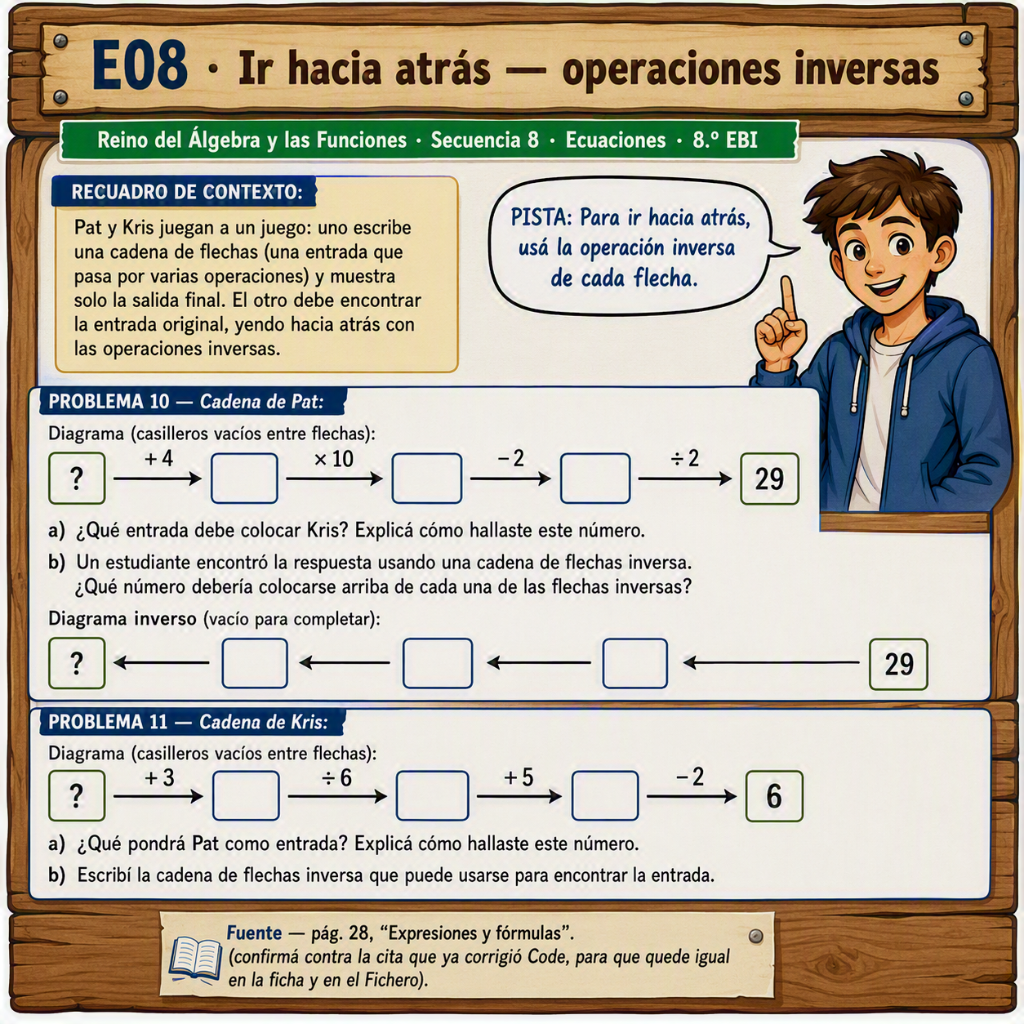
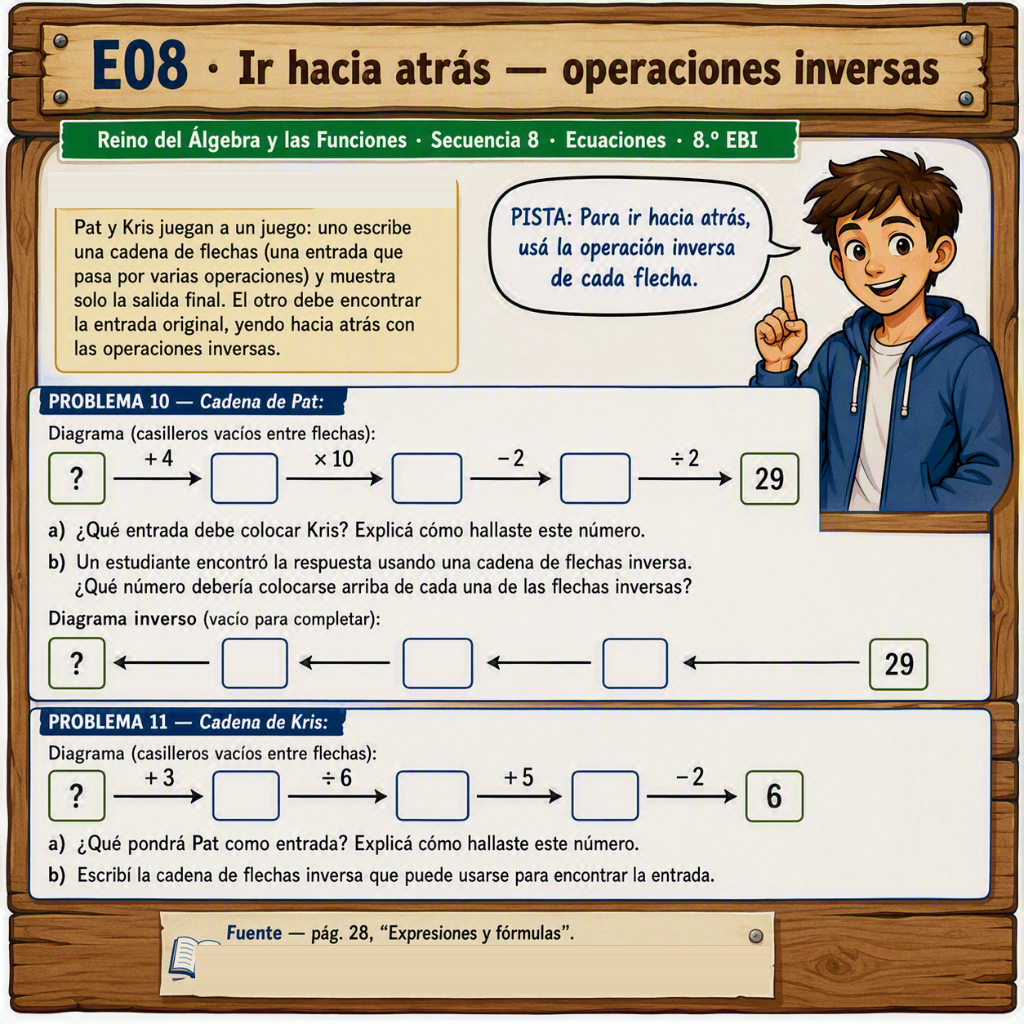
S8: reemplaza 5 archivos corregidos en misiones E01, E03, E08
- mision-01/Pijama_Death.png: badge cambiado de A-07 a E01
- mision-03/E03_parte 1.png: ítem 12 corregido, sin ejemplo, 12 ítems/nivel
- mision-03/E03_parte 3.png: ítems 1 y 6 de Nivel 2 corregidos
- mision-03/E03_ficha.html: cita de pie de página corregida
- mision-09/E08_operaciones inversas.png: eliminado recuadro CONTEXTO y nota filtrada

Changed region(s): [[0.0312, 0.1562, 0.4688, 0.2188], [0.1875, 0.9062, 0.7188, 0.9688]]

diff --git a/algebra-funciones/s8-ecuaciones/misiones/mision-03/E03_ficha.html b/algebra-funciones/s8-ecuaciones/misiones/mision-03/E03_ficha.html
@@ -73,7 +73,7 @@
   </div>
 
   <footer>
-    <b>Fuente:</b> Publicaciones Porras. <i>Matemática 8.° EBI</i>, Actividades 3.17, 3.18 y 3.19, pág. 113-115.
+    <b>Fuente:</b> Porras, S. (2013). <i>Matemática 8.° EBI</i>, Actividades 3.17, 3.18 y 3.19, pág. 113-115.
     Fernández, G. M. (2026). Reino Matemático. Liceo de Médanos.
   </footer>
 </div>
